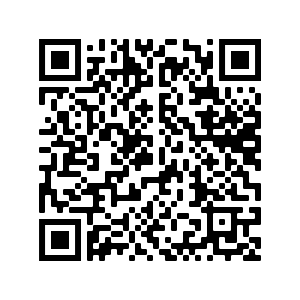
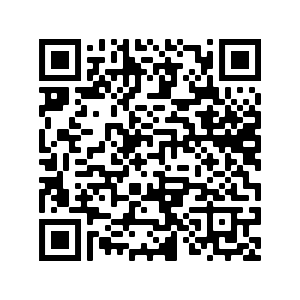
deploy

Changed region(s): [[0.42, 0.12, 0.69, 0.87], [0.12, 0.3, 0.36, 0.87]]

diff --git a/index.html b/index.html
@@ -354,6 +354,19 @@
               </div>
             </div>
           </div>
+          
+          <div class="row mt-3">
+            <div class="col-12">
+              <h3 class="text-center">Referencias</h3>
+            </div>
+          </div>
+          <div class="row mt-3">
+            <div class="col-12">
+              <div class="light-container text-center">
+                <img src="media/qr-code.png">
+              </div>
+            </div>
+          </div>
         </div>
       </div>
     </div>
